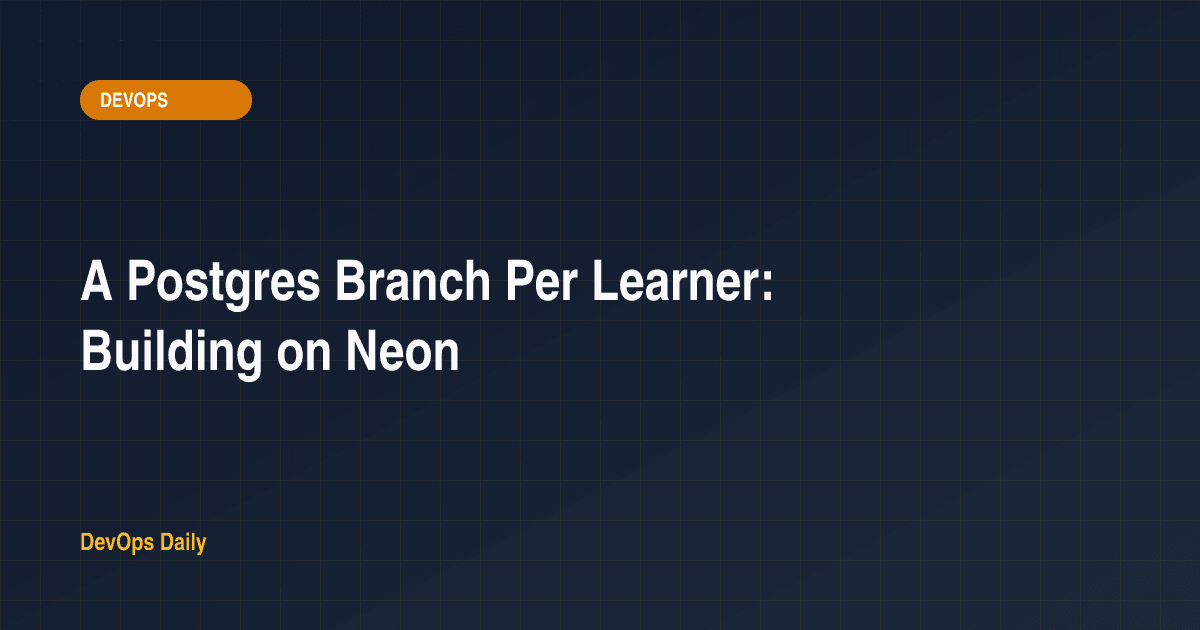
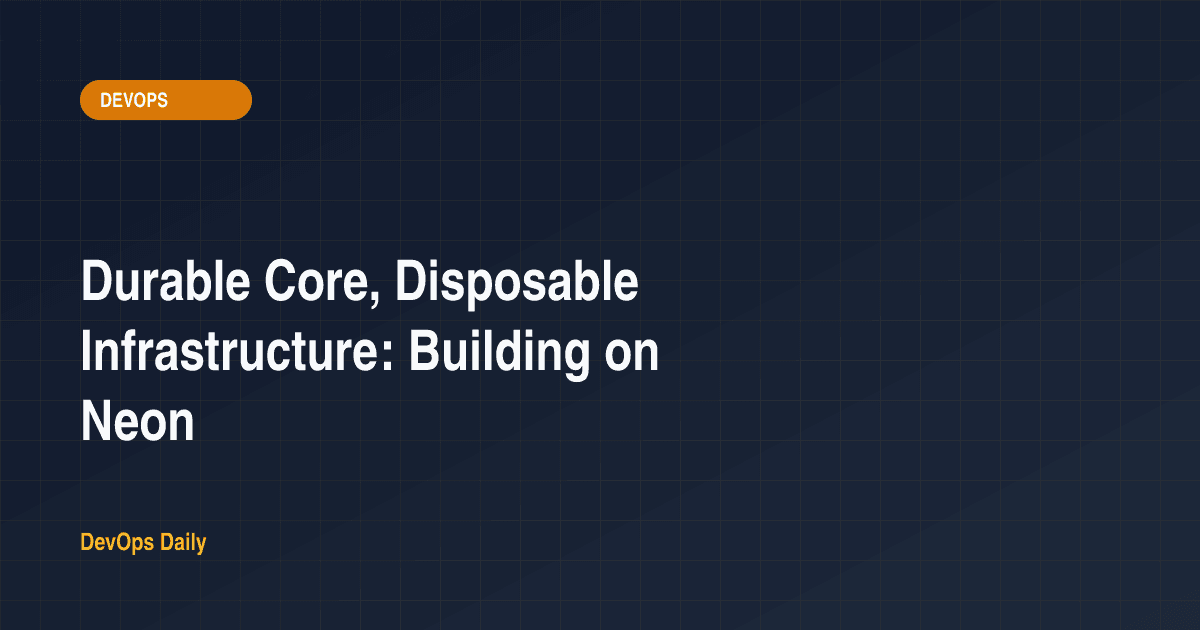
Retitle the Neon post to match its scope

Changed region(s): [[0.0617, 0.3921, 0.6475, 0.5127], [0.0617, 0.5127, 0.555, 0.6032], [0.0617, 0.6333, 0.185, 0.6937]]

diff --git a/content/posts/building-a-learning-platform-on-neon.md b/content/posts/building-a-learning-platform-on-neon.md
@@ -1,5 +1,5 @@
 ---
-title: 'A Postgres Branch Per Learner: Building on Neon'
+title: 'Durable Core, Disposable Infrastructure: Building on Neon'
 excerpt: 'Every hands-on lab gets its own Postgres branch, AI generation runs outside the request cycle, and cleanup is core infrastructure rather than a chore.'
 category:
   name: 'DevOps'
